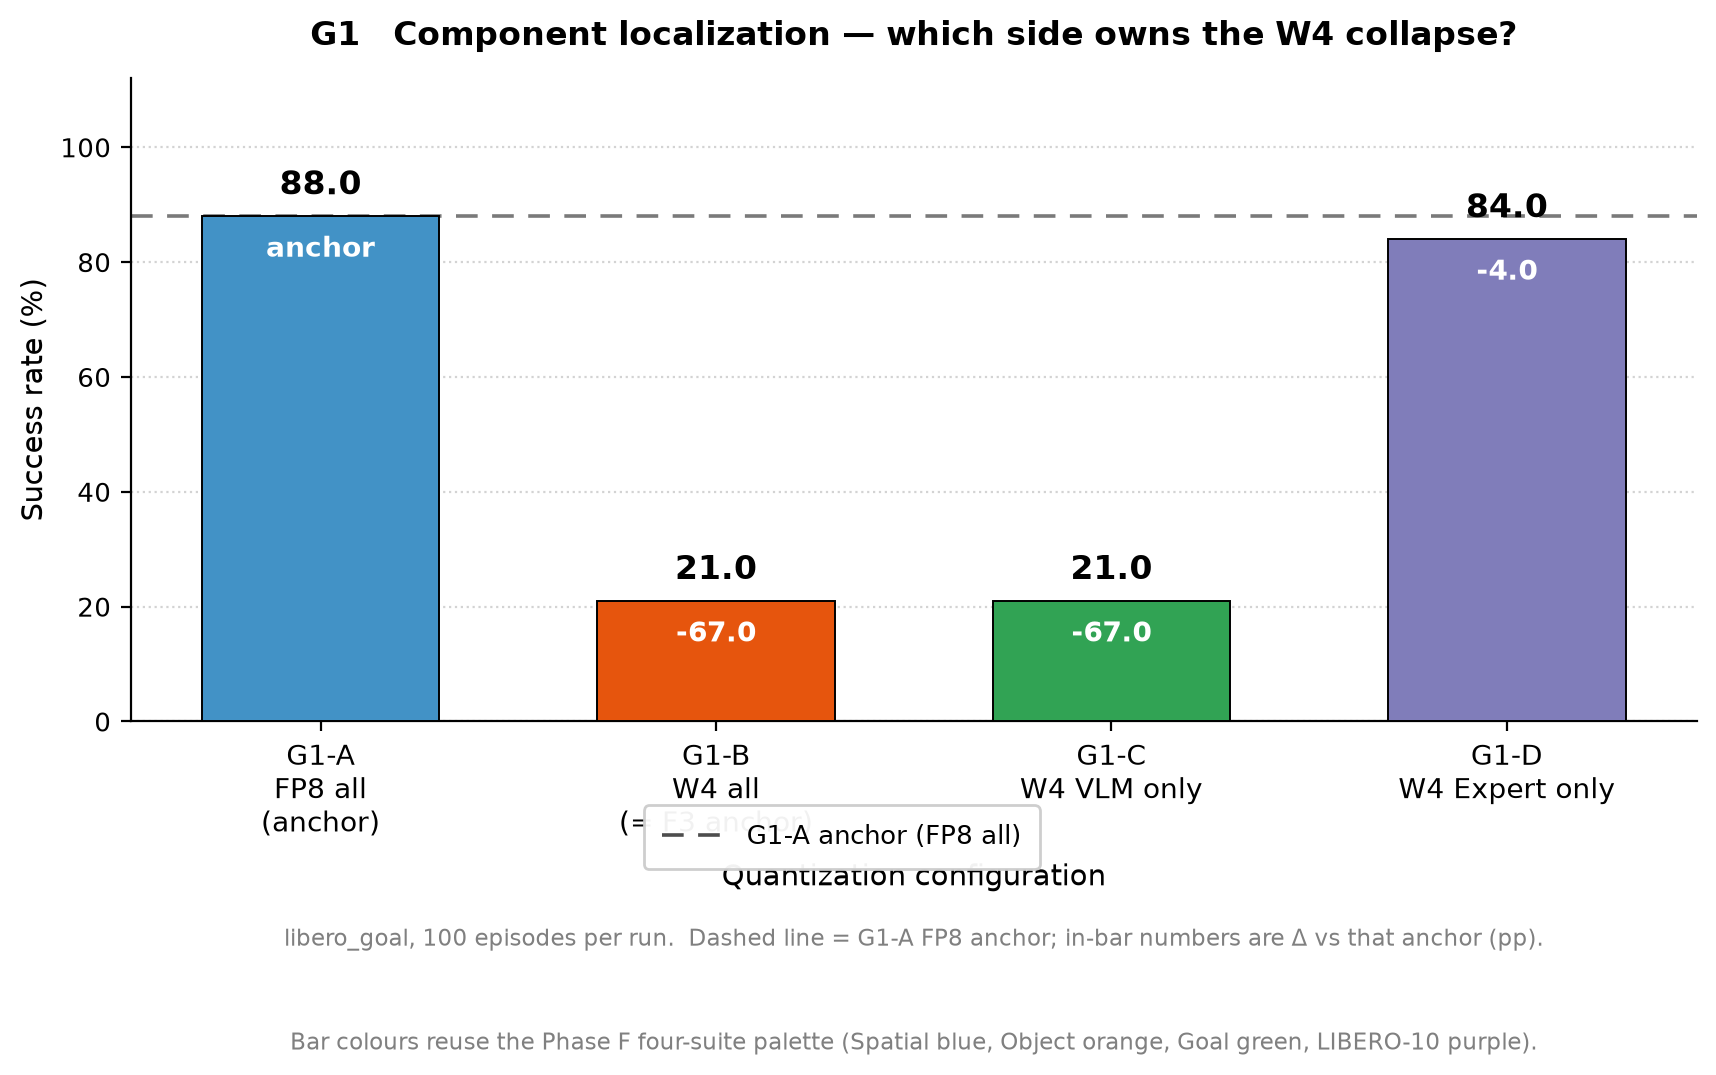
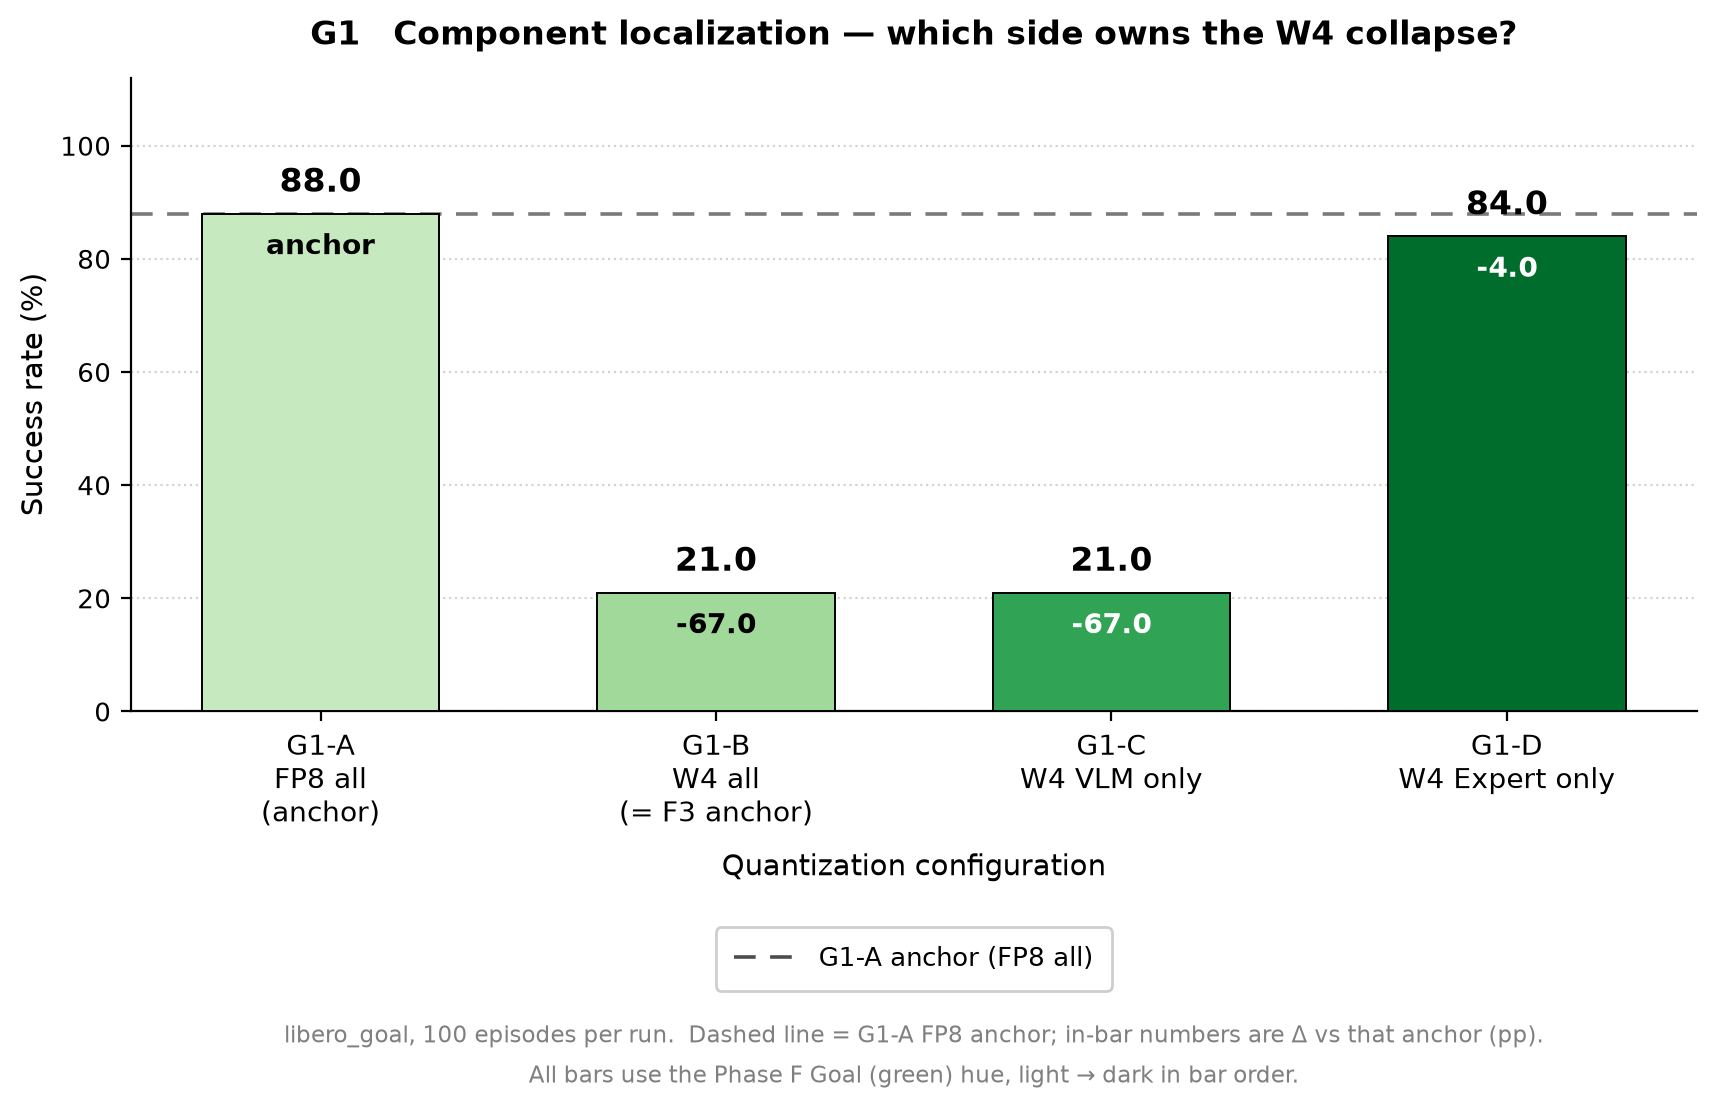
phaseG: fix G1 colours and the legend covering the tick labels
Two problems reported on the G1 chart, both real.

1. G1 used the wrong palette. It was drawn with the four Phase F suite hues
   (blue / orange / green / purple); all four bars should be the Goal (green)
   family, matching G5. Both charts now use GOAL_SHADES_4, lightening to
   darkening along the bar order.

   GOAL_SHADES_4[1:4] is exactly SUITE_SHADES["Goal"], so three of the four
   green steps are literally the same colours Phase F uses for its Goal bars
   in F1/F2/F3 -- the green language of the two figure families lines up.

2. The "G1-A anchor (FP8 all)" legend box covered text. It was positioned with
   a hand-tuned figure fraction (0.275) that landed on top of the multi-line
   x tick labels and the x-axis label. The legend and the footnote lines are
   now stacked at positions MEASURED from ax.get_tightbbox(), which includes
   the tick labels and axis label, instead of guessed.

Checker gap that let this through
The layout checker only compared figure-level artists against
ax.get_window_extent() -- the plot rectangle. Tick labels and axis labels live
OUTSIDE that rectangle, so the legend/tick-label collision was invisible to
it. It now builds an explicit inventory of the axes rectangle, the tight
bbox, every tick label and both axis labels (14 boxes per chart instead of 1),
and reports named overlaps. Re-running it on the pre-fix layout reproduces the
bug it previously missed:

    figlegend[0] overlaps axes[0].xticklabel[1] 'G1-B|W4 all|(= F3 anchor)'
[…]

diff --git a/experiments/2026-09-10_phaseG_w4-root-cause/scripts/plot_phaseG_bars.py b/experiments/2026-09-10_phaseG_w4-root-cause/scripts/plot_phaseG_bars.py
@@ -5,20 +5,21 @@ Charts (one figure each, four bars per figure):
 
   G1  Component localization: which side owns the W4 collapse?
       G1-A FP8 all (anchor)  |  G1-B W4 all  |  G1-C W4 VLM only  |  G1-D W4 Expert only
-      Colours reuse the Phase F four-suite palette (blue / orange / green /
-      purple), so the F and G figure families read as one set.
 
   G5  VLM internals under W4: attention vs MLP
       control (VLM all FP8)  |  attention W4  |  MLP W4  |  VLM all W4
-      All bars use the Phase F Goal (green) hue with four lightness steps,
-      deepening with W4 aggressiveness.
 
-The FP8 anchor of each chart is drawn as a dashed reference line so the drop
-is readable at a glance, and each bar carries its delta against that anchor
-with an auto-picked black/white label colour.
+Both charts use the Phase F Goal (green) hue with four lightness steps,
+deepening along the bar order. The FP8 anchor of each chart is drawn as a
+dashed reference line so the drop is readable at a glance, and each bar
+carries its delta against that anchor with an auto-picked black/white label
+colour.
 
-Layout is collision-proof: apart from the bar labels every text block lives
-outside the axes, so a tall bar can never sit under the legend.
+The legend and the footnote lines are stacked below the axes at positions
+measured from ``ax.get_tightbbox()`` -- which includes the (multi-line) x tick
+labels and the x-axis label -- rather than hand-tuned fractions. Placing them
+just under the plot rectangle instead would put the legend on top of the tick
+text.
 
 All figures' text is English (avoids CJK font issues in matplotlib).
 Palette comes from scripts/figure_palette.py — the same source Phase F uses.
@@ -67,11 +68,7 @@ G5_RUNS = RUNS / "vlm-selective-precision"
 sys.path.insert(0, str(ROOT / "scripts"))
 from figure_palette import (  # noqa: E402
     C_REF,
-    C_NEG,
-    C_POS,
     GOAL_SHADES_4,
-    SUITE_LABELS,
-    SUITE_SHADES,
     readable_on,
 )
 
@@ -79,18 +76,17 @@ from figure_palette import (  # noqa: E402
 # data spec
 # ---------------------------------------------------------------------------
 
-# G1: four hues taken from the Phase F suite palette (mid lightness step).
+# Both charts use the Phase F Goal (green) hue with four lightness steps,
+# deepening with W4 aggressiveness.
+
 G1_BARS = [
-    ("G1-A\nFP8 all\n(anchor)", "g1a_fp8_all", G1_RUNS, SUITE_SHADES["Spatial"][1]),
-    ("G1-B\nW4 all\n(= F3 anchor)", "g1b_w4_all", G1_RUNS,
-     SUITE_SHADES["Object"][1]),
-    ("G1-C\nW4 VLM only", "g1c_w4_vlm_only", G1_RUNS, SUITE_SHADES["Goal"][1]),
-    ("G1-D\nW4 Expert only", "g1d_w4_expert_only", G1_RUNS,
-     SUITE_SHADES["LIBERO-10"][1]),
+    ("G1-A\nFP8 all\n(anchor)", "g1a_fp8_all", G1_RUNS, GOAL_SHADES_4[0]),
+    ("G1-B\nW4 all\n(= F3 anchor)", "g1b_w4_all", G1_RUNS, GOAL_SHADES_4[1]),
+    ("G1-C\nW4 VLM only", "g1c_w4_vlm_only", G1_RUNS, GOAL_SHADES_4[2]),
+    ("G1-D\nW4 Expert only", "g1d_w4_expert_only", G1_RUNS, GOAL_SHADES_4[3]),
 ]
 
-# G5: one hue (Goal green), four lightness steps, light -> dark with W4
-# aggressiveness. The last bar is G1-C re-measured, hence a different run dir.
+# The last G5 bar is G1-C re-measured, hence a different run directory.
 G5_BARS = [
     ("control\nVLM all FP8\nExpert raw FP", "g5a_vlm_fp8_control", G5_RUNS,
      GOAL_SHADES_4[0]),
@@ -188,25 +184,49 @@ def anchor_legend_handles(anchor_label):
                    linewidth=1.3, label=anchor_label)]
 
 
-SINGLE_LAYOUT = dict(left=0.105, right=0.975, top=0.88, bottom=0.335)
+SINGLE_LAYOUT = dict(left=0.105, right=0.975, top=0.90, bottom=0.42)
+
+
+def stack_below_axes(fig, ax, handles, notes, xc, gap_legend=0.024,
+                     gap_text=0.026, gap_line=0.013):
+    """Stack the legend and the footnote lines strictly below the axes.
+
+    Positions are MEASURED, not hand-tuned: the starting y comes from
+    ``ax.get_tightbbox()``, which includes the tick labels and the x-axis
+    label. Using ``ax.get_window_extent()`` instead would ignore those, and a
+    legend placed just under the plot rectangle would then sit right on top of
+    the multi-line x tick labels (that was the original bug here).
+    """
+    fig.canvas.draw()
+    r = fig.canvas.get_renderer()
+    inv = fig.transFigure.inverted()
+
+    y = ax.get_tightbbox(r).transformed(inv).y0 - gap_legend
+    leg = fig.legend(handles=handles, loc="upper center",
+                     bbox_to_anchor=(xc, y), fontsize=9.5, frameon=True,
+                     framealpha=0.95, borderpad=0.7, handlelength=2.4)
+
+    fig.canvas.draw()
+    y = leg.get_window_extent(r).transformed(inv).y0 - gap_text
+    for i, txt in enumerate(notes):
+        t = fig.text(xc, y, txt, ha="center", va="top", fontsize=8.2,
+                     color="gray")
+        fig.canvas.draw()
+        y = t.get_window_extent(r).transformed(inv).y0 - gap_line
+        if y < 0.01:          # never let a note fall off the canvas
+            print(f"[warn] note {i} would run off the figure (y={y:.3f})")
+    return leg
 
 
 def build_figure(labels, vals, colors, title, anchor_label, xlabel,
                  footnote1, footnote2):
-    fig, ax = plt.subplots(figsize=(9.0, 5.9), dpi=160)
+    fig, ax = plt.subplots(figsize=(9.0, 6.6), dpi=160)
     fig.subplots_adjust(**SINGLE_LAYOUT)
     xc = (SINGLE_LAYOUT["left"] + SINGLE_LAYOUT["right"]) / 2
 
     draw_chart(ax, labels, vals, colors, title, anchor_label, xlabel)
-
-    # everything below lives outside the axes (see anchor_legend_handles)
-    fig.legend(handles=anchor_legend_handles(anchor_label), loc="upper center",
-               bbox_to_anchor=(0.5, 0.275), fontsize=9.5, frameon=True,
-               framealpha=0.95, borderpad=0.7, handlelength=2.4)
-    fig.text(xc, 0.150, footnote1, ha="center", va="center", fontsize=8.2,
-             color="gray")
-    fig.text(xc, 0.062, footnote2, ha="center", va="center", fontsize=8.2,
-             color="gray")
+    stack_below_axes(fig, ax, anchor_legend_handles(anchor_label),
+                     [footnote1, footnote2], xc)
     return fig
 
 
@@ -238,8 +258,7 @@ def main():
         "Quantization configuration",
         ep_note(eps) + ".  Dashed line = G1-A FP8 anchor; "
         "in-bar numbers are Δ vs that anchor (pp).",
-        "Bar colours reuse the Phase F four-suite palette "
-        "(Spatial blue, Object orange, Goal green, LIBERO-10 purple).",
+        "All bars use the Phase F Goal (green) hue, light → dark in bar order.",
     )
     saved.append(save(fig, "phaseG_G1_component_localization.png"))
     plt.close(fig)

diff --git a/experiments/2026-09-10_phaseG_w4-root-cause/docs/results.md b/experiments/2026-09-10_phaseG_w4-root-cause/docs/results.md
@@ -49,6 +49,8 @@ Phase G 目标：归因 Phase F 中 F3（Linear W4）四 suite 平均 83.0% → 
 
 分析：VLM-only W4 完整复现 F3 崩溃，Expert-only W4 几乎无损 → **VLM 量化贡献 ≥95% 退化**。与 G0 交叉：vlm/expert 权重 NMSE 仅 1.3×，但闭环 SR 差 63pp → 根因是 VLM 对均匀 W4 噪声的闭环敏感度，非误差大小。详见 `tasks/component-localization/docs/results.md`。
 
+> G1 与 G5 两张图均使用 **Goal 绿色系** 的四档明度（由浅到深）。其中后三档 `#a1d99b / #31a354 / #006d2c` 与 Phase F 中 Goal 柱在 F1/F2/F3 使用的颜色**完全一致**，因此 F 与 G 两套图的绿色语言可以直接对读。
+
 ### 3.2 G5 VLM 内部 selective precision（Expert raw FP）
 
 ![G5 VLM internals](figures/phaseG_G5_vlm_internals.png)
